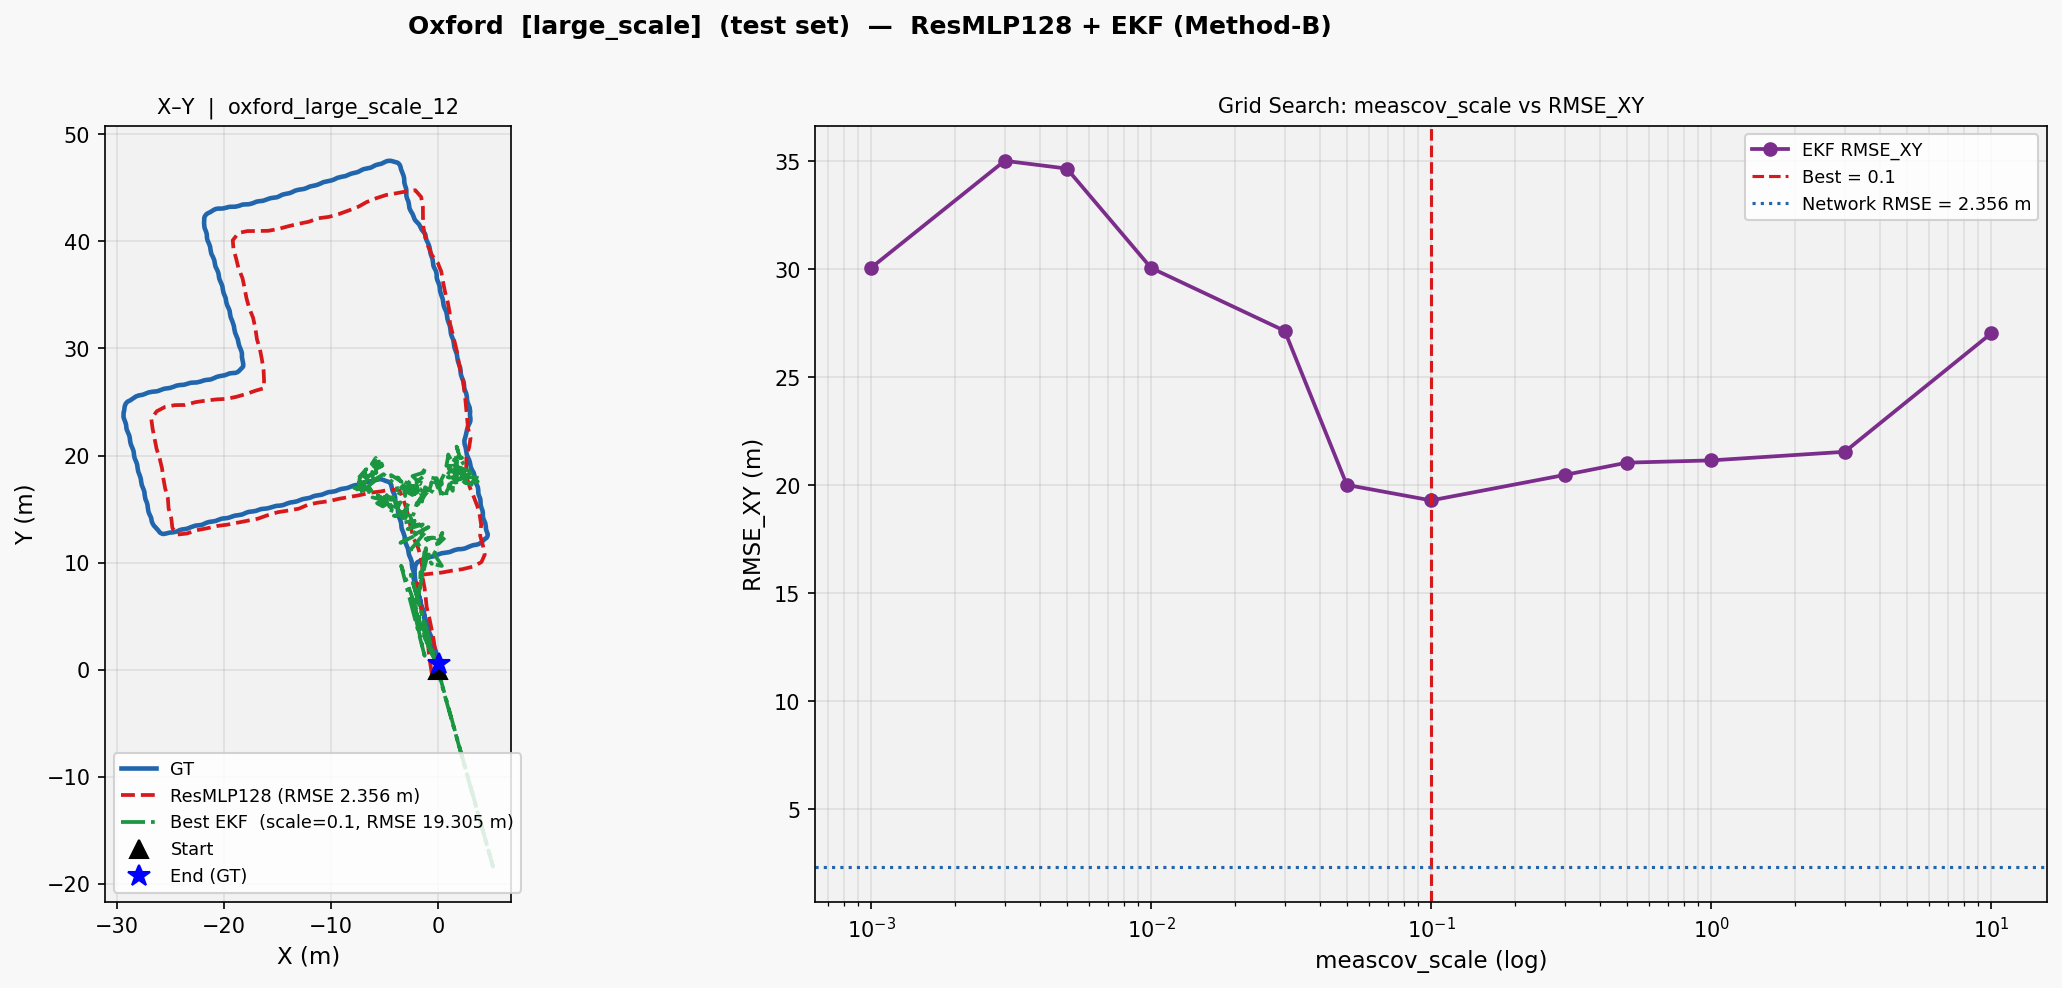
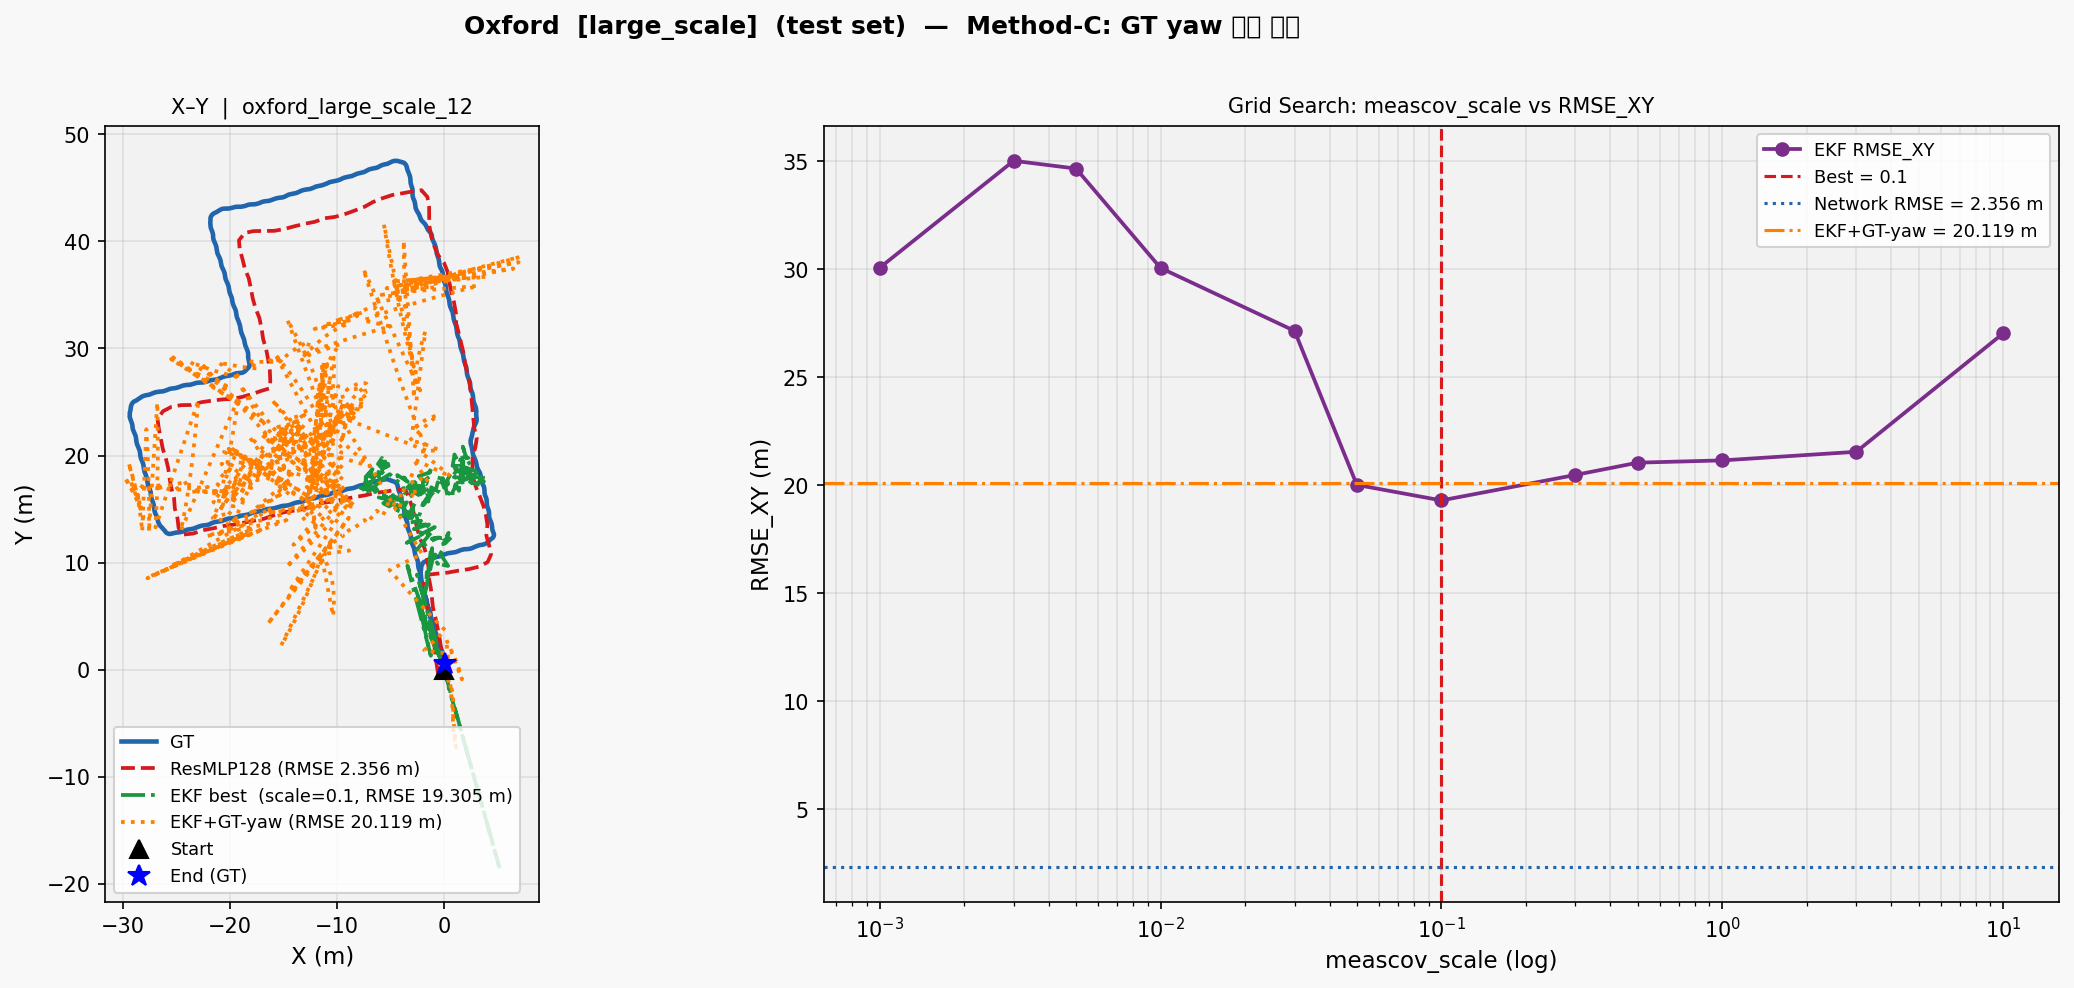
Add EKF diagnostic experiments (Method C/D/E) and GT yaw norm support
- ekf_tune.py: add GT yaw injection (C), GT measurement (D), GT yaw
  normalization (E) diagnostic runs; extend summary table with all columns
- visualize_comparison.py: add gt_yaw_inject, use_gt_yaw_norm params to
  run_ekf_imutracker; TwoLayerImuTracker now accepts gt_quat/gt_ts_us for
  Method-E frame normalization; gt_callback also uses GT yaw when enabled
- doc/ekf_compare: regenerate all 9 category PNGs with GT-yaw EKF overlay

Key findings:
- Root cause of EKF > network RMSE: cumulative EKF yaw drift shifts network
  input out of training distribution (OOD effect)
- Smooth-motion (trolley/multi_devices): GT-meas EKF reaches 0.37/0.65 m vs
  network 1.98/1.65 m — EKF architecture is correct, measurement quality
  is the bottleneck
- Rough-motion (handheld/running): large yaw drift → large OOD → network-only
  outperforms EKF

diff --git a/src/View/ekf_tune.py b/src/View/ekf_tune.py
@@ -135,9 +135,11 @@ def plot_ekf_result(category: str, seq_name: str, split: str,
                     pos_gt: np.ndarray, net_pos: np.ndarray,
                     ekf_pos: np.ndarray, grid_log: list,
                     best_scale: float, rmse_net: float, rmse_ekf: float,
-                    output_dir: Path):
+                    output_dir: Path,
+                    ekf_pos_gtyaw: np.ndarray = None,
+                    rmse_gt_yaw: float = float("nan")):
     """
-    Left : X-Y 경로 비교 (GT / Network / Best EKF)
+    Left : X-Y 경로 비교 (GT / Network / Best EKF / GT-yaw EKF)
     Right: meascov_scale vs RMSE_XY 그리드 서치 곡선
     """
     fig, axes = plt.subplots(1, 2, figsize=(16, 6.5))
@@ -155,7 +157,11 @@ def plot_ekf_result(category: str, seq_name: str, split: str,
     ax.plot(net_xy[:,0], net_xy[:,1], lw=1.8, color="#d7191c", linestyle="--",
             label=f"ResMLP128 (RMSE {rmse_net:.3f} m)")
     ax.plot(ekf_xy[:,0], ekf_xy[:,1], lw=1.8, color="#1a9641", linestyle="-.",
-            label=f"Best EKF  (scale={best_scale:.4g}, RMSE {rmse_ekf:.3f} m)")
+            label=f"EKF best  (scale={best_scale:.4g}, RMSE {rmse_ekf:.3f} m)")
+    if ekf_pos_gtyaw is not None:
+        gtyaw_xy = ekf_pos_gtyaw[:, :2] - origin[:2]
+        ax.plot(gtyaw_xy[:,0], gtyaw_xy[:,1], lw=1.8, color="#ff7f00", linestyle=":",
+                label=f"EKF+GT-yaw (RMSE {rmse_gt_yaw:.3f} m)")
     ax.plot(0, 0, "k^", markersize=9,  zorder=6, label="Start")
     ax.plot(*gt_xy[-1], "b*", markersize=11, zorder=6, label="End (GT)")
 
@@ -178,6 +184,9 @@ def plot_ekf_result(category: str, seq_name: str, split: str,
                     lw=1.5, label=f"Best = {best_scale:.4g}")
         ax2.axhline(rmse_net, color="#2166ac", linestyle=":",
                     lw=1.5, label=f"Network RMSE = {rmse_net:.3f} m")
+        if not np.isnan(rmse_gt_yaw):
+            ax2.axhline(rmse_gt_yaw, color="#ff7f00", linestyle="-.",
+                        lw=1.5, label=f"EKF+GT-yaw = {rmse_gt_yaw:.3f} m")
         ax2.set_xlabel("meascov_scale (log)", fontsize=11)
         ax2.set_ylabel("RMSE_XY (m)", fontsize=11)
         ax2.set_title("Grid Search: meascov_scale vs RMSE_XY", fontsize=10)
@@ -186,7 +195,7 @@ def plot_ekf_result(category: str, seq_name: str, split: str,
         ax2.set_facecolor("#f2f2f2")
 
     fig.suptitle(
-        f"Oxford  [{category}]  ({split} set)  —  ResMLP128 + EKF (Method-B)",
+        f"Oxford  [{category}]  ({split} set)  —  Method-C: GT yaw 주입 검증",
         fontsize=12, fontweight="bold", y=1.01,
     )
     plt.tight_layout()
@@ -247,6 +256,7 @@ def main():
                     model, norm_mean, norm_std, WINDOW_LEN,
                     forced_state_id=state_id,
                     meascov_override=scale,
+                    mahalanobis_fail_scale=10.0,
                 )
                 rmse = compute_rmse_xy_anchor(ekf_pos, pos_gt, list(win_indices))
                 grid_log.append((scale, rmse))
@@ -263,41 +273,88 @@ def main():
         print(f"  >> best: meascov_scale={best_scale:.4g}  "
               f"RMSE_XY={best_rmse:.4f} m  (network={rmse_net:.4f} m)")
 
-        # 최적 스케일로 EKF 재실행 → 시각화
+        # 최적 스케일로 EKF 재실행 → 시각화 + 두 가지 진단
+        rmse_gt_yaw      = float("nan")
+        rmse_gt_meas     = float("nan")
+        rmse_gt_yaw_norm = float("nan")
         try:
             ekf_pos_best = run_ekf_imutracker(
                 ts_us, gyr, acc_raw, quat, pos_gt, vel_gt,
                 model, norm_mean, norm_std, WINDOW_LEN,
                 forced_state_id=state_id,
                 meascov_override=best_scale,
+                mahalanobis_fail_scale=10.0,
             )
+            # ── 방안 C: GT yaw 주입 실험
+            ekf_pos_gtyaw = run_ekf_imutracker(
+                ts_us, gyr, acc_raw, quat, pos_gt, vel_gt,
+                model, norm_mean, norm_std, WINDOW_LEN,
+                forced_state_id=state_id,
+                meascov_override=best_scale,
+                mahalanobis_fail_scale=10.0,
+                gt_yaw_inject=True,
+            )
+            rmse_gt_yaw = compute_rmse_xy_anchor(ekf_pos_gtyaw, pos_gt, list(win_indices))
+            print(f"  >> GT yaw 주입:    RMSE_XY={rmse_gt_yaw:.4f} m "
+                  f"(vs network={rmse_net:.4f} m, EKF={best_rmse:.4f} m)")
+
+            # ── 방안 D: GT 측정값 사용 (IMU 전파 품질 진단)
+            ekf_pos_gtmeas = run_ekf_imutracker(
+                ts_us, gyr, acc_raw, quat, pos_gt, vel_gt,
+                model, norm_mean, norm_std, WINDOW_LEN,
+                forced_state_id=state_id,
+                meascov_override=best_scale,
+                mahalanobis_fail_scale=10.0,
+                use_gt_meas=True,
+            )
+            rmse_gt_meas = compute_rmse_xy_anchor(ekf_pos_gtmeas, pos_gt, list(win_indices))
+            print(f"  >> GT 측정값 사용:     RMSE_XY={rmse_gt_meas:.4f} m "
+                  f"(vs network={rmse_net:.4f} m, EKF={best_rmse:.4f} m)")
+
+            # ── 방안 E: GT yaw 정규화 + 네트워크 측정 (측정 프레임 수정)
+            ekf_pos_gtyawnorm = run_ekf_imutracker(
+                ts_us, gyr, acc_raw, quat, pos_gt, vel_gt,
+                model, norm_mean, norm_std, WINDOW_LEN,
+                forced_state_id=state_id,
+                meascov_override=best_scale,
+                mahalanobis_fail_scale=10.0,
+                use_gt_yaw_norm=True,
+            )
+            rmse_gt_yaw_norm = compute_rmse_xy_anchor(ekf_pos_gtyawnorm, pos_gt, list(win_indices))
+            print(f"  >> GT yaw 정규화+네트워크: RMSE_XY={rmse_gt_yaw_norm:.4f} m "
+                  f"(vs network={rmse_net:.4f} m, EKF={best_rmse:.4f} m)")
+
             plot_ekf_result(
                 cat, seq_name, split,
                 pos_gt, net_pos, ekf_pos_best, grid_log,
                 best_scale, rmse_net, best_rmse, OUTPUT_DIR,
+                ekf_pos_gtyaw=ekf_pos_gtyaw, rmse_gt_yaw=rmse_gt_yaw,
             )
         except Exception as e:
             print(f"  [!] 시각화 실패: {e}")
 
-        results.append((cat, seq_name, split, best_scale, rmse_net, best_rmse, grid_log))
+        results.append((cat, seq_name, split, best_scale,
+                        rmse_net, best_rmse, rmse_gt_yaw, rmse_gt_meas, rmse_gt_yaw_norm, grid_log))
         print()
 
     # ── 결과 요약 테이블 ─────────────────────────────────────────────
-    print("\n" + "=" * 75)
+    print("\n" + "=" * 113)
     print(f"{'Category':<18} {'Split':<6} {'StateID':>7} {'Best Scale':>11} "
-          f"{'Net RMSE':>10} {'EKF RMSE':>10}  {'Improve':>8}")
-    print("-" * 75)
-    for cat, seq, split, scale, r_net, r_ekf, _ in results:
+          f"{'Net RMSE':>10} {'EKF RMSE':>10} {'GT-Meas':>9} {'GT-YawNorm':>11}  {'Improve':>8}")
+    print("-" * 113)
+    for cat, seq, split, scale, r_net, r_ekf, r_gtyaw, r_gtmeas, r_gtyawnorm, _ in results:
         sid  = CATEGORY_TO_STATE.get(cat, -1)
         diff = r_net - r_ekf          # positive = EKF better
         mark = " [+]" if diff > 0 else " [-]"
+        gtmeas_str    = f"{r_gtmeas:>9.4f}"    if not np.isnan(r_gtmeas)    else f"{'N/A':>9}"
+        gtyawnorm_str = f"{r_gtyawnorm:>11.4f}" if not np.isnan(r_gtyawnorm) else f"{'N/A':>11}"
         print(f"{cat:<18} {split:<6} {sid:>7} {scale:>11.4g} "
-              f"{r_net:>10.4f} {r_ekf:>10.4f}  {diff:>+7.4f}{mark}")
-    print("=" * 75)
+              f"{r_net:>10.4f} {r_ekf:>10.4f} {gtmeas_str} {gtyawnorm_str}  {diff:>+7.4f}{mark}")
+    print("=" * 113)
 
     # ── 업데이트된 STATE_EKF_PARAMS 코드 ────────────────────────────
     state_to_cat = {v: k for k, v in CATEGORY_TO_STATE.items()}
-    cat_to_scale = {cat: scale for cat, _, _, scale, _, _, _ in results}
+    cat_to_scale = {cat: scale for cat, _, _, scale, _, _, _, _, _, _ in results}
 
     labels = {
         -1: "unknown",      1: "handbag",   2: "handheld",

diff --git a/src/View/visualize_comparison.py b/src/View/visualize_comparison.py
@@ -297,7 +297,9 @@ class TwoLayerImuTracker:
                  norm_std: np.ndarray, filter_tuning_cfg,
                  update_freq: float = 1.0, device: torch.device = None,
                  forced_state_id: int = None,
-                 meascov_override: float = None):
+                 meascov_override: float = None,
+                 gt_quat: np.ndarray = None,
+                 gt_ts_us: np.ndarray = None):
         if device is None:
             device = next(model.parameters()).device
 
@@ -319,6 +321,10 @@ class TwoLayerImuTracker:
         self._default_sigma_ng = filter_tuning_cfg.sigma_ng
         self._default_ita_ba   = filter_tuning_cfg.ita_ba
         self._default_ita_bg   = filter_tuning_cfg.ita_bg
+
+        # Method-E: GT quaternion yaw 를 측정 프레임 정규화에 사용 (진단 전용)
+        self.gt_quat   = gt_quat    # [T, 4] xyzw  None → EKF 추정 rotation 사용 (기본)
+        self.gt_ts_us  = gt_ts_us   # [T]   타임스탬프 (μs)
 
         self.filter      = ImuMSCKF(filter_tuning_cfg)
         self.meas_source = TwoLayerMeasSource(model, norm_mean, norm_std, device,
@@ -386,7 +392,13 @@ class TwoLayerImuTracker:
             net_tus_begin, net_tus_end
         )
         R_oldest_wfb, _ = self.filter.get_past_state(t_oldest_state_us)
-        ri_z = compute_euler_from_matrix(R_oldest_wfb, "xyz", extrinsic=True)[0, 2]
+        if self.gt_quat is not None and self.gt_ts_us is not None:
+            # Method-E: GT quaternion 의 yaw 로 정규화 (EKF yaw drift 무력화)
+            idx_old = int(np.searchsorted(self.gt_ts_us, t_oldest_state_us))
+            idx_old = min(idx_old, len(self.gt_quat) - 1)
+            ri_z = R.from_quat(self.gt_quat[idx_old]).as_euler("zyx", degrees=False)[0]
+        else:
+            ri_z = compute_euler_from_matrix(R_oldest_wfb, "xyz", extrinsic=True)[0, 2]
         Ri_z = np.array([
             [ np.cos(ri_z), -np.sin(ri_z), 0],
             [ np.sin(ri_z),  np.cos(ri_z), 0],
@@ -454,15 +466,46 @@ class TwoLayerImuTracker:
 # ---------------------------------------------------------------------------
 # EKF 실행 (ImuTracker 기반)
 # ---------------------------------------------------------------------------
+def _correct_yaw_to_gt(filter_state, ts_us, quat, t_idx):
+    """EKF 의 evolving state + 모든 augmented state 의 yaw 를 GT 쿼터니언으로 교정.
+    pitch/roll 은 EKF 추정값 유지, yaw 만 GT 로 덮어씀.
+    """
+    def _yaw_of_R(Rmat):
+        return R.from_matrix(Rmat).as_euler("zyx", degrees=False)[0]
+
+    def _apply_delta_yaw(Rmat, delta):
+        cd, sd = np.cos(delta), np.sin(delta)
+        Rz = np.array([[cd, -sd, 0.], [sd, cd, 0.], [0., 0., 1.]])
+        return Rz @ Rmat
+
+    # ── evolving state 교정
+    yaw_gt_now = R.from_quat(quat[min(t_idx, len(quat) - 1)]).as_euler("zyx", degrees=False)[0]
+    delta = yaw_gt_now - _yaw_of_R(filter_state.s_R)
+    filter_state.s_R = _apply_delta_yaw(filter_state.s_R, delta)
+
+    # ── augmented states 교정
+    for k in range(len(filter_state.si_Rs)):
+        t_k   = filter_state.si_timestamps_us[k]
+        idx_k = int(np.searchsorted(ts_us, t_k))
+        idx_k = min(idx_k, len(quat) - 1)
+        yaw_gt_k = R.from_quat(quat[idx_k]).as_euler("zyx", degrees=False)[0]
+        dk = yaw_gt_k - _yaw_of_R(filter_state.si_Rs[k])
+        filter_state.si_Rs[k] = _apply_delta_yaw(filter_state.si_Rs[k], dk)
+
+
 def run_ekf_imutracker(ts_us, gyr, acc_raw, quat, pos_gt, vel_gt,
                        model, norm_mean, norm_std, window_len=100,
                        use_gt_meas=False,
                        meascov_scale=10.0, sigma_na=np.sqrt(1e-3),
                        sigma_ng=np.sqrt(1e-4), init_vel_sigma=1.0,
                        ita_ba=1e-4, ita_bg=1e-6,
-                       forced_state_id=None, meascov_override=None):
+                       forced_state_id=None, meascov_override=None,
+                       mahalanobis_fail_scale=10.0,
+                       gt_yaw_inject=False,
+                       use_gt_yaw_norm=False):
     """ImuTracker 파이프라인으로 EKF 궤적을 반환.
-    use_gt_meas=True 이면 네트워크 대신 GT 변위를 측정값으로 사용 (디버그용).
+    use_gt_meas=True     : 네트워크 대신 GT 변위를 측정값으로 사용 (디버그)
+    use_gt_yaw_norm=True : 측정 프레임 yaw 정규화에 GT quat 사용 (Method-E 진단)
     """
     from types import SimpleNamespace
     from utils.from_scipy import compute_euler_from_matrix
@@ -480,14 +523,18 @@ def run_ekf_imutracker(ts_us, gyr, acc_raw, quat, pos_gt, vel_gt,
         init_ba_sigma       = 0.02,
         g_norm              = 9.81,
         meascov_scale       = 1.0,   # 상태별 스케일은 TwoLayerMeasSource 내부에서 적용
-        mahalanobis_fail_scale = 0,
+        mahalanobis_fail_scale = mahalanobis_fail_scale,
     )
 
     device  = next(model.parameters()).device
-    tracker = TwoLayerImuTracker(model, norm_mean, norm_std, ekf_cfg,
-                                 update_freq=1.0, device=device,
-                                 forced_state_id=forced_state_id,
-                                 meascov_override=meascov_override)
+    tracker = TwoLayerImuTracker(
+        model, norm_mean, norm_std, ekf_cfg,
+        update_freq=1.0, device=device,
+        forced_state_id=forced_state_id,
+        meascov_override=meascov_override,
+        gt_quat=(quat  if use_gt_yaw_norm else None),
+        gt_ts_us=(ts_us if use_gt_yaw_norm else None),
+    )
 
     # GT 측정값 콜백 (디버그)
     if use_gt_meas:
@@ -495,8 +542,13 @@ def run_ekf_imutracker(ts_us, gyr, acc_raw, quat, pos_gt, vel_gt,
             idx_old = int(np.searchsorted(ts_us, t_oldest_us))
             idx_end = int(np.searchsorted(ts_us, t_end_us))
             dp_world = (pos_gt[idx_end] - pos_gt[idx_old]).reshape(3, 1)
-            R_old, _ = tracker.filter.get_past_state(t_oldest_us)
-            ri_z = compute_euler_from_matrix(R_old, "xyz", extrinsic=True)[0, 2]
+            if use_gt_yaw_norm:
+                # GT yaw 로 정규화 (Method-E)
+                idx_clamped = min(idx_old, len(quat) - 1)
+                ri_z = R.from_quat(quat[idx_clamped]).as_euler("zyx", degrees=False)[0]
+            else:
+                R_old, _ = tracker.filter.get_past_state(t_oldest_us)
+                ri_z = compute_euler_from_matrix(R_old, "xyz", extrinsic=True)[0, 2]
             Ri_z = np.array([
                 [np.cos(ri_z), -np.sin(ri_z), 0],
                 [np.sin(ri_z),  np.cos(ri_z), 0],
@@ -525,6 +577,9 @@ def run_ekf_imutracker(ts_us, gyr, acc_raw, quat, pos_gt, vel_gt,
             gyr[i].reshape(3, 1),
             acc_raw[i].reshape(3, 1),
         )
+        # ── GT yaw 주입 (방안 C): IMU 적분 yaw 오차를 GT 로 교정
+        if gt_yaw_inject:
+            _correct_yaw_to_gt(tracker.filter.state, ts_us, quat, i)
         _, _, p_ekf, _, _ = tracker.filter.get_evolving_state()
         ekf_positions.append(p_ekf.flatten().copy())
 
